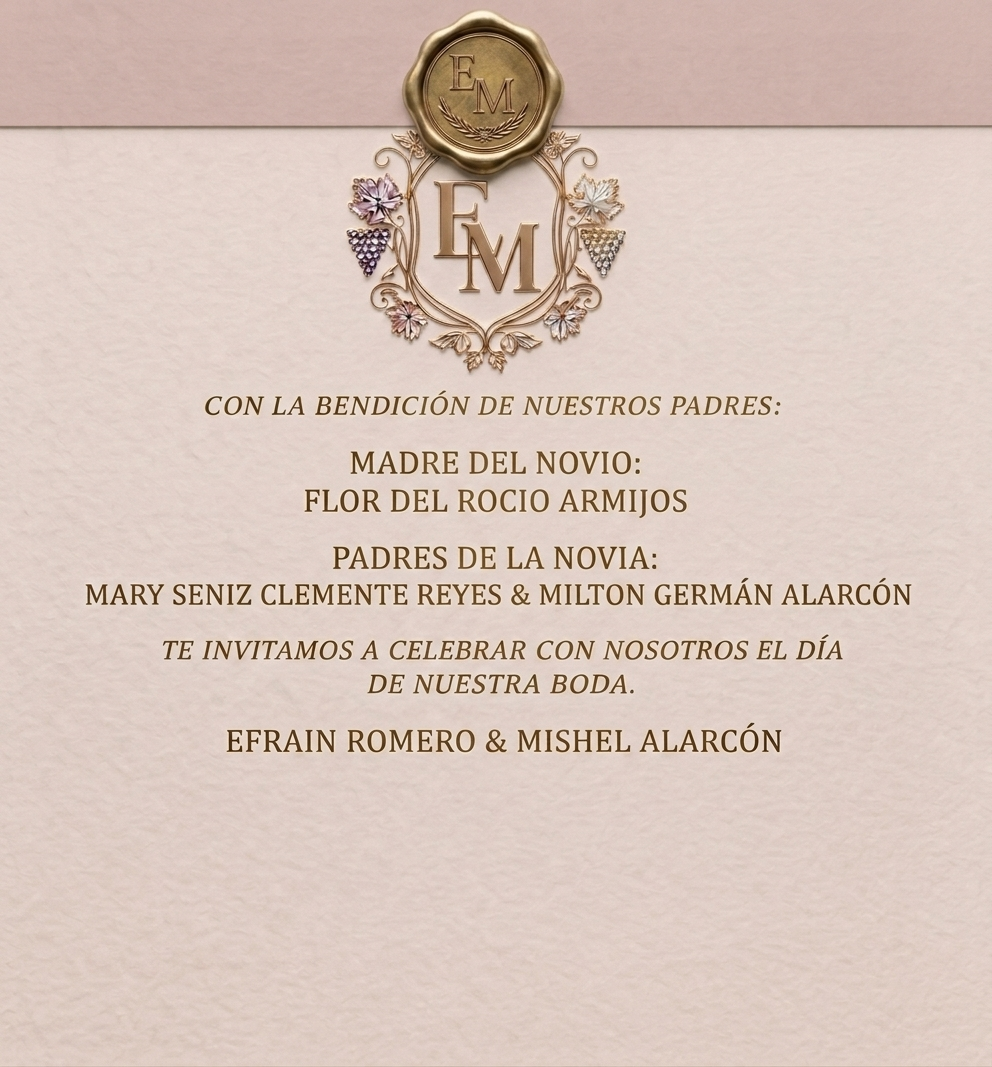
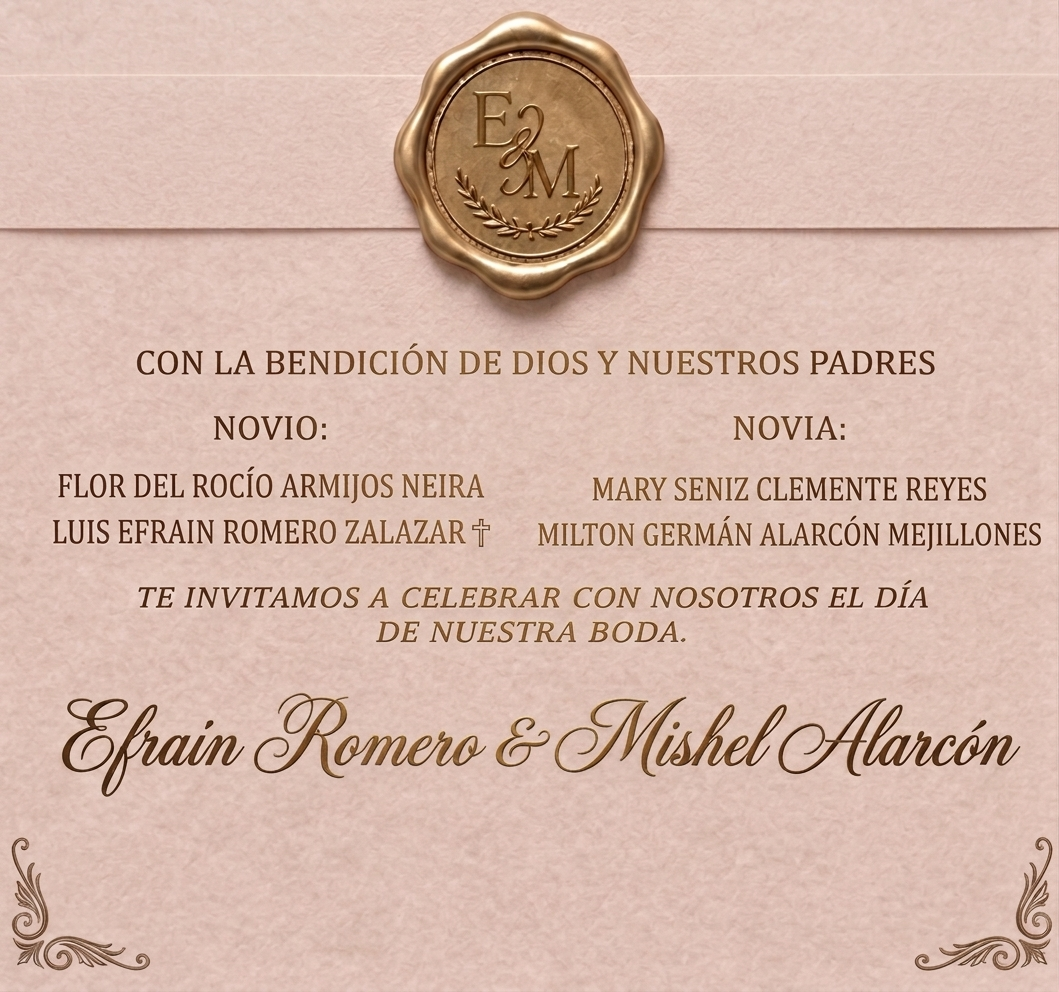
first commitnn

diff --git a/index.html b/index.html
@@ -363,6 +363,19 @@ img {
         color: #5B463B !important;
     }
     .invitado-nombre { font-size: 22px; font-weight: 400; letter-spacing: 2px; }
+}/* ===== NOTA SIN NIÑOS ===== */
+.invitado-nota {
+    font-family: 'Cormorant Garamond', serif;
+    font-size: 13px;
+    font-style: italic;
+    letter-spacing: 1.5px;
+    line-height: 1.5;
+    margin: 22px auto 0;
+    padding-top: 16px;
+    max-width: 240px;
+    border-top: 1px solid rgba(141, 122, 100, .35);
+    color: #614e1a;
+    opacity: .85;
 }
 </style>
 </head>
@@ -512,6 +525,7 @@ img {
         <p class="invitado-reservado">Hemos reservado</p>
         <div class="invitado-circulo"><span id="num-pases">1</span></div>
         <p class="invitado-texto" id="texto-pases">pase para ti</p>
+        <p class="invitado-nota">Por ser una celebración para adultos,<br>agradecemos su comprensión al no asistir con niños.</p>
     </div>
 </div>
 
